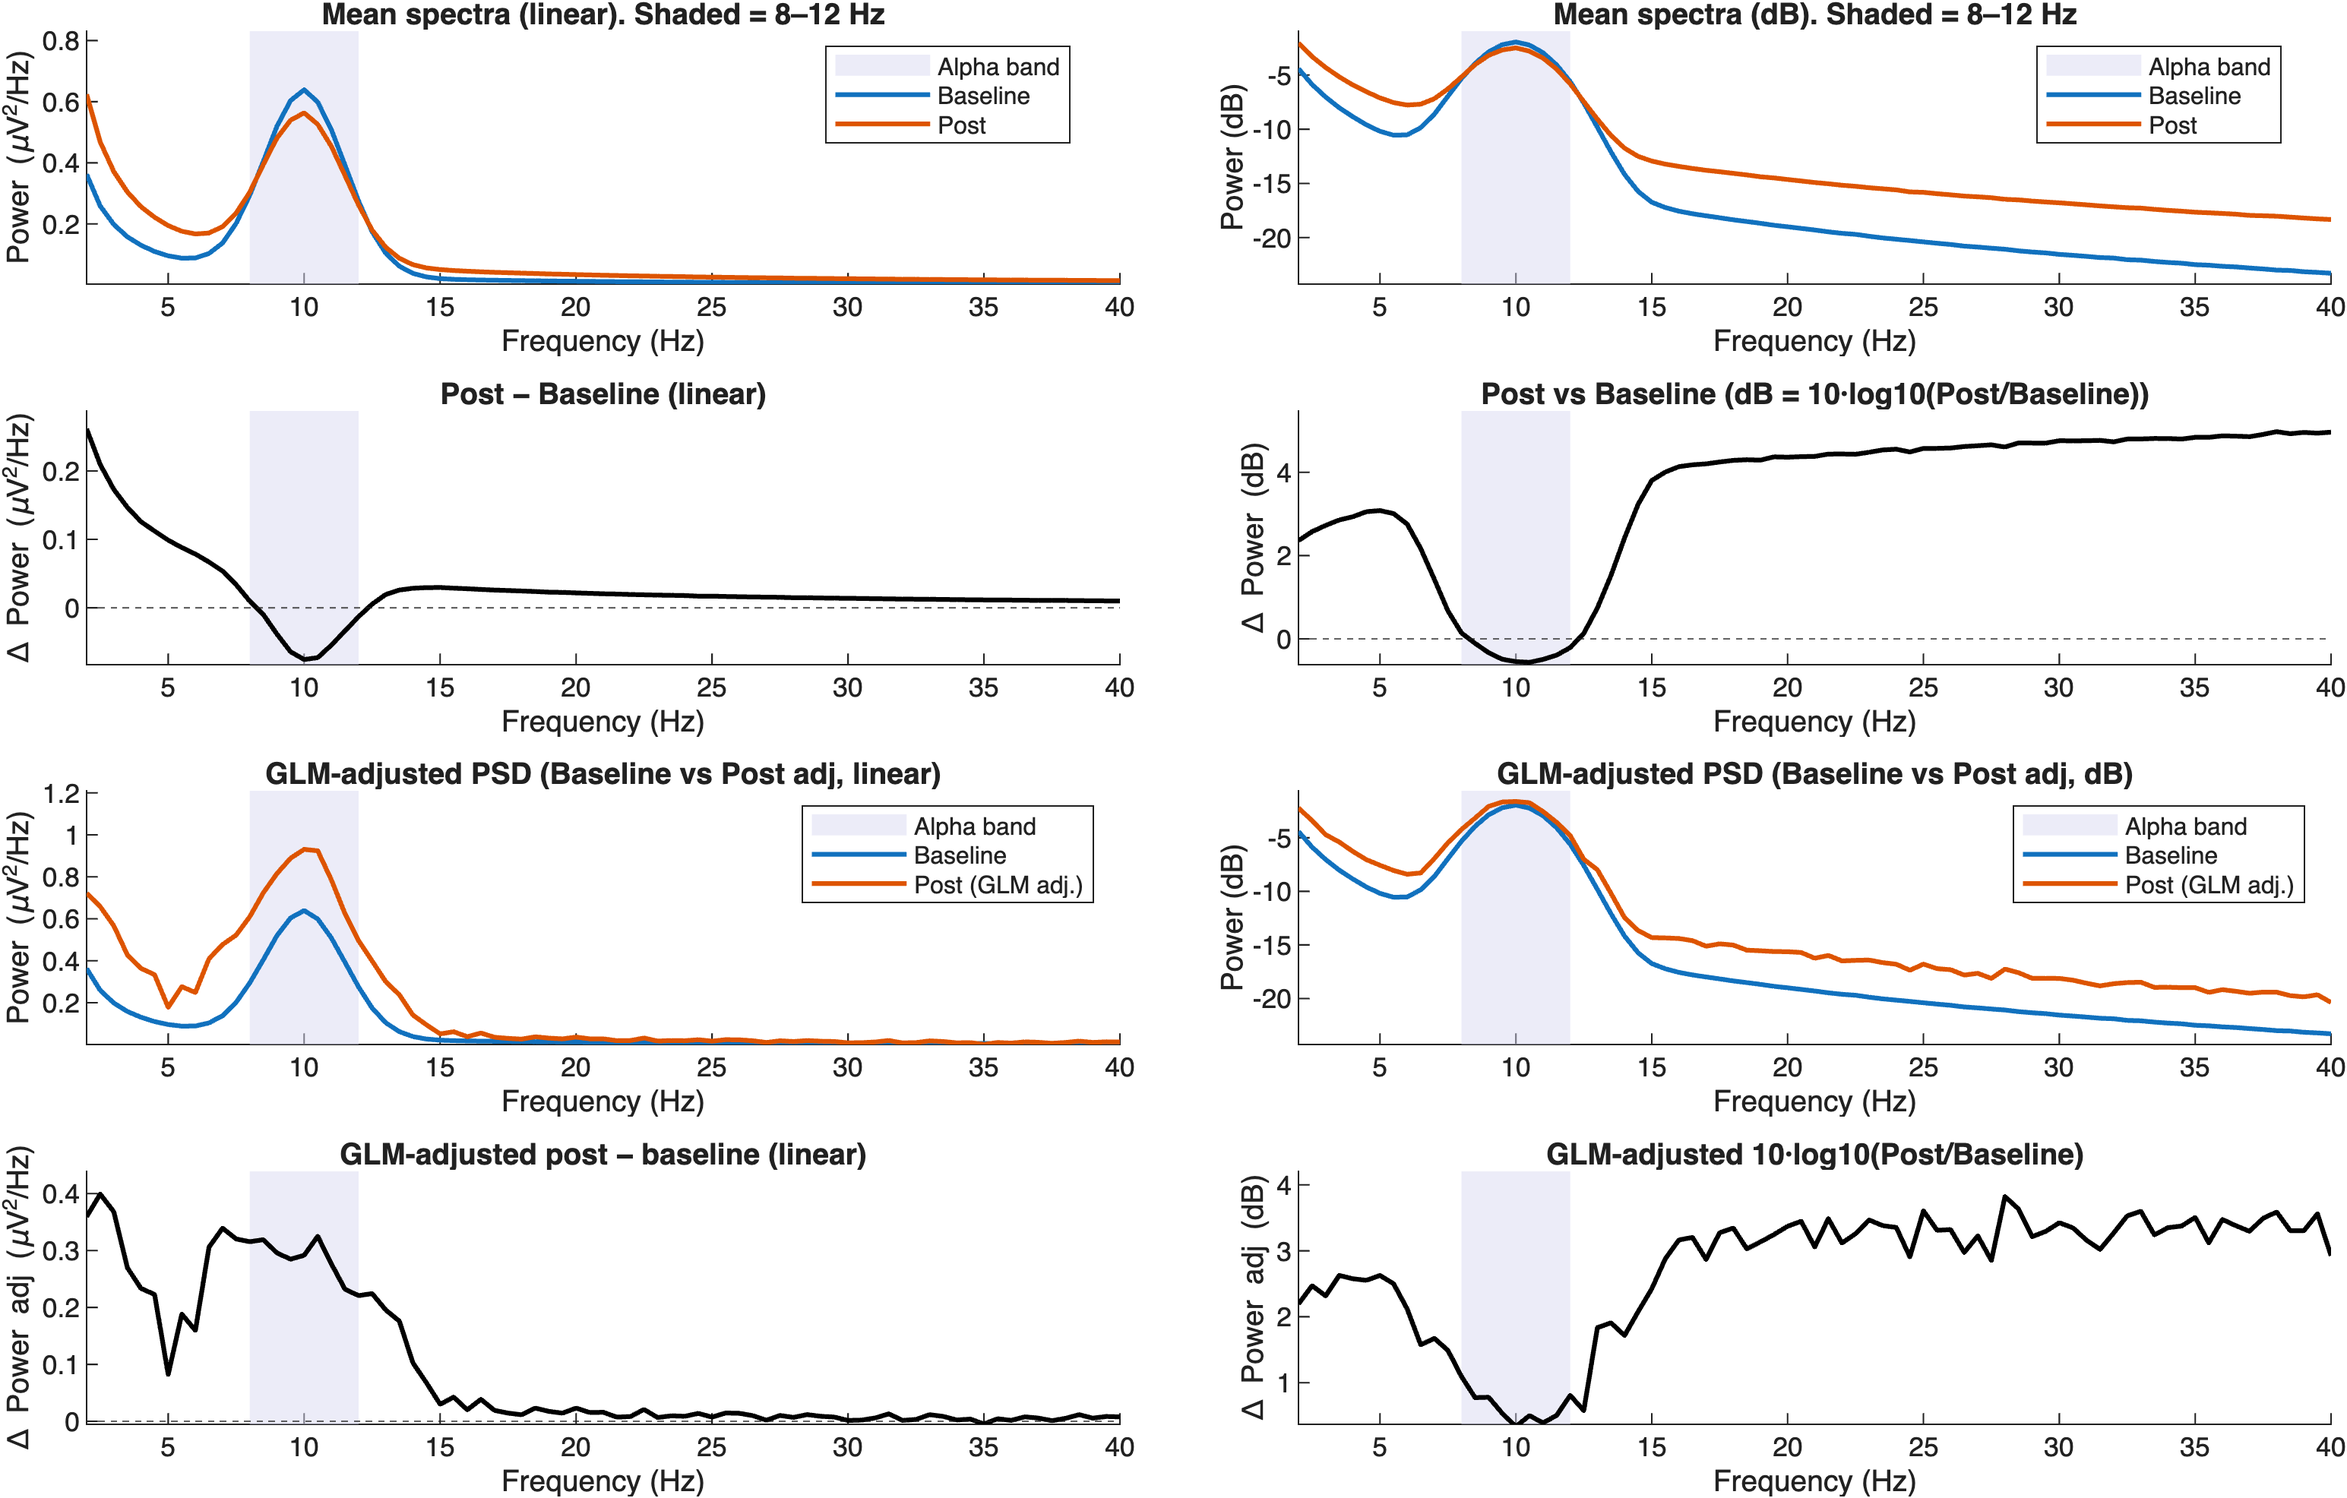
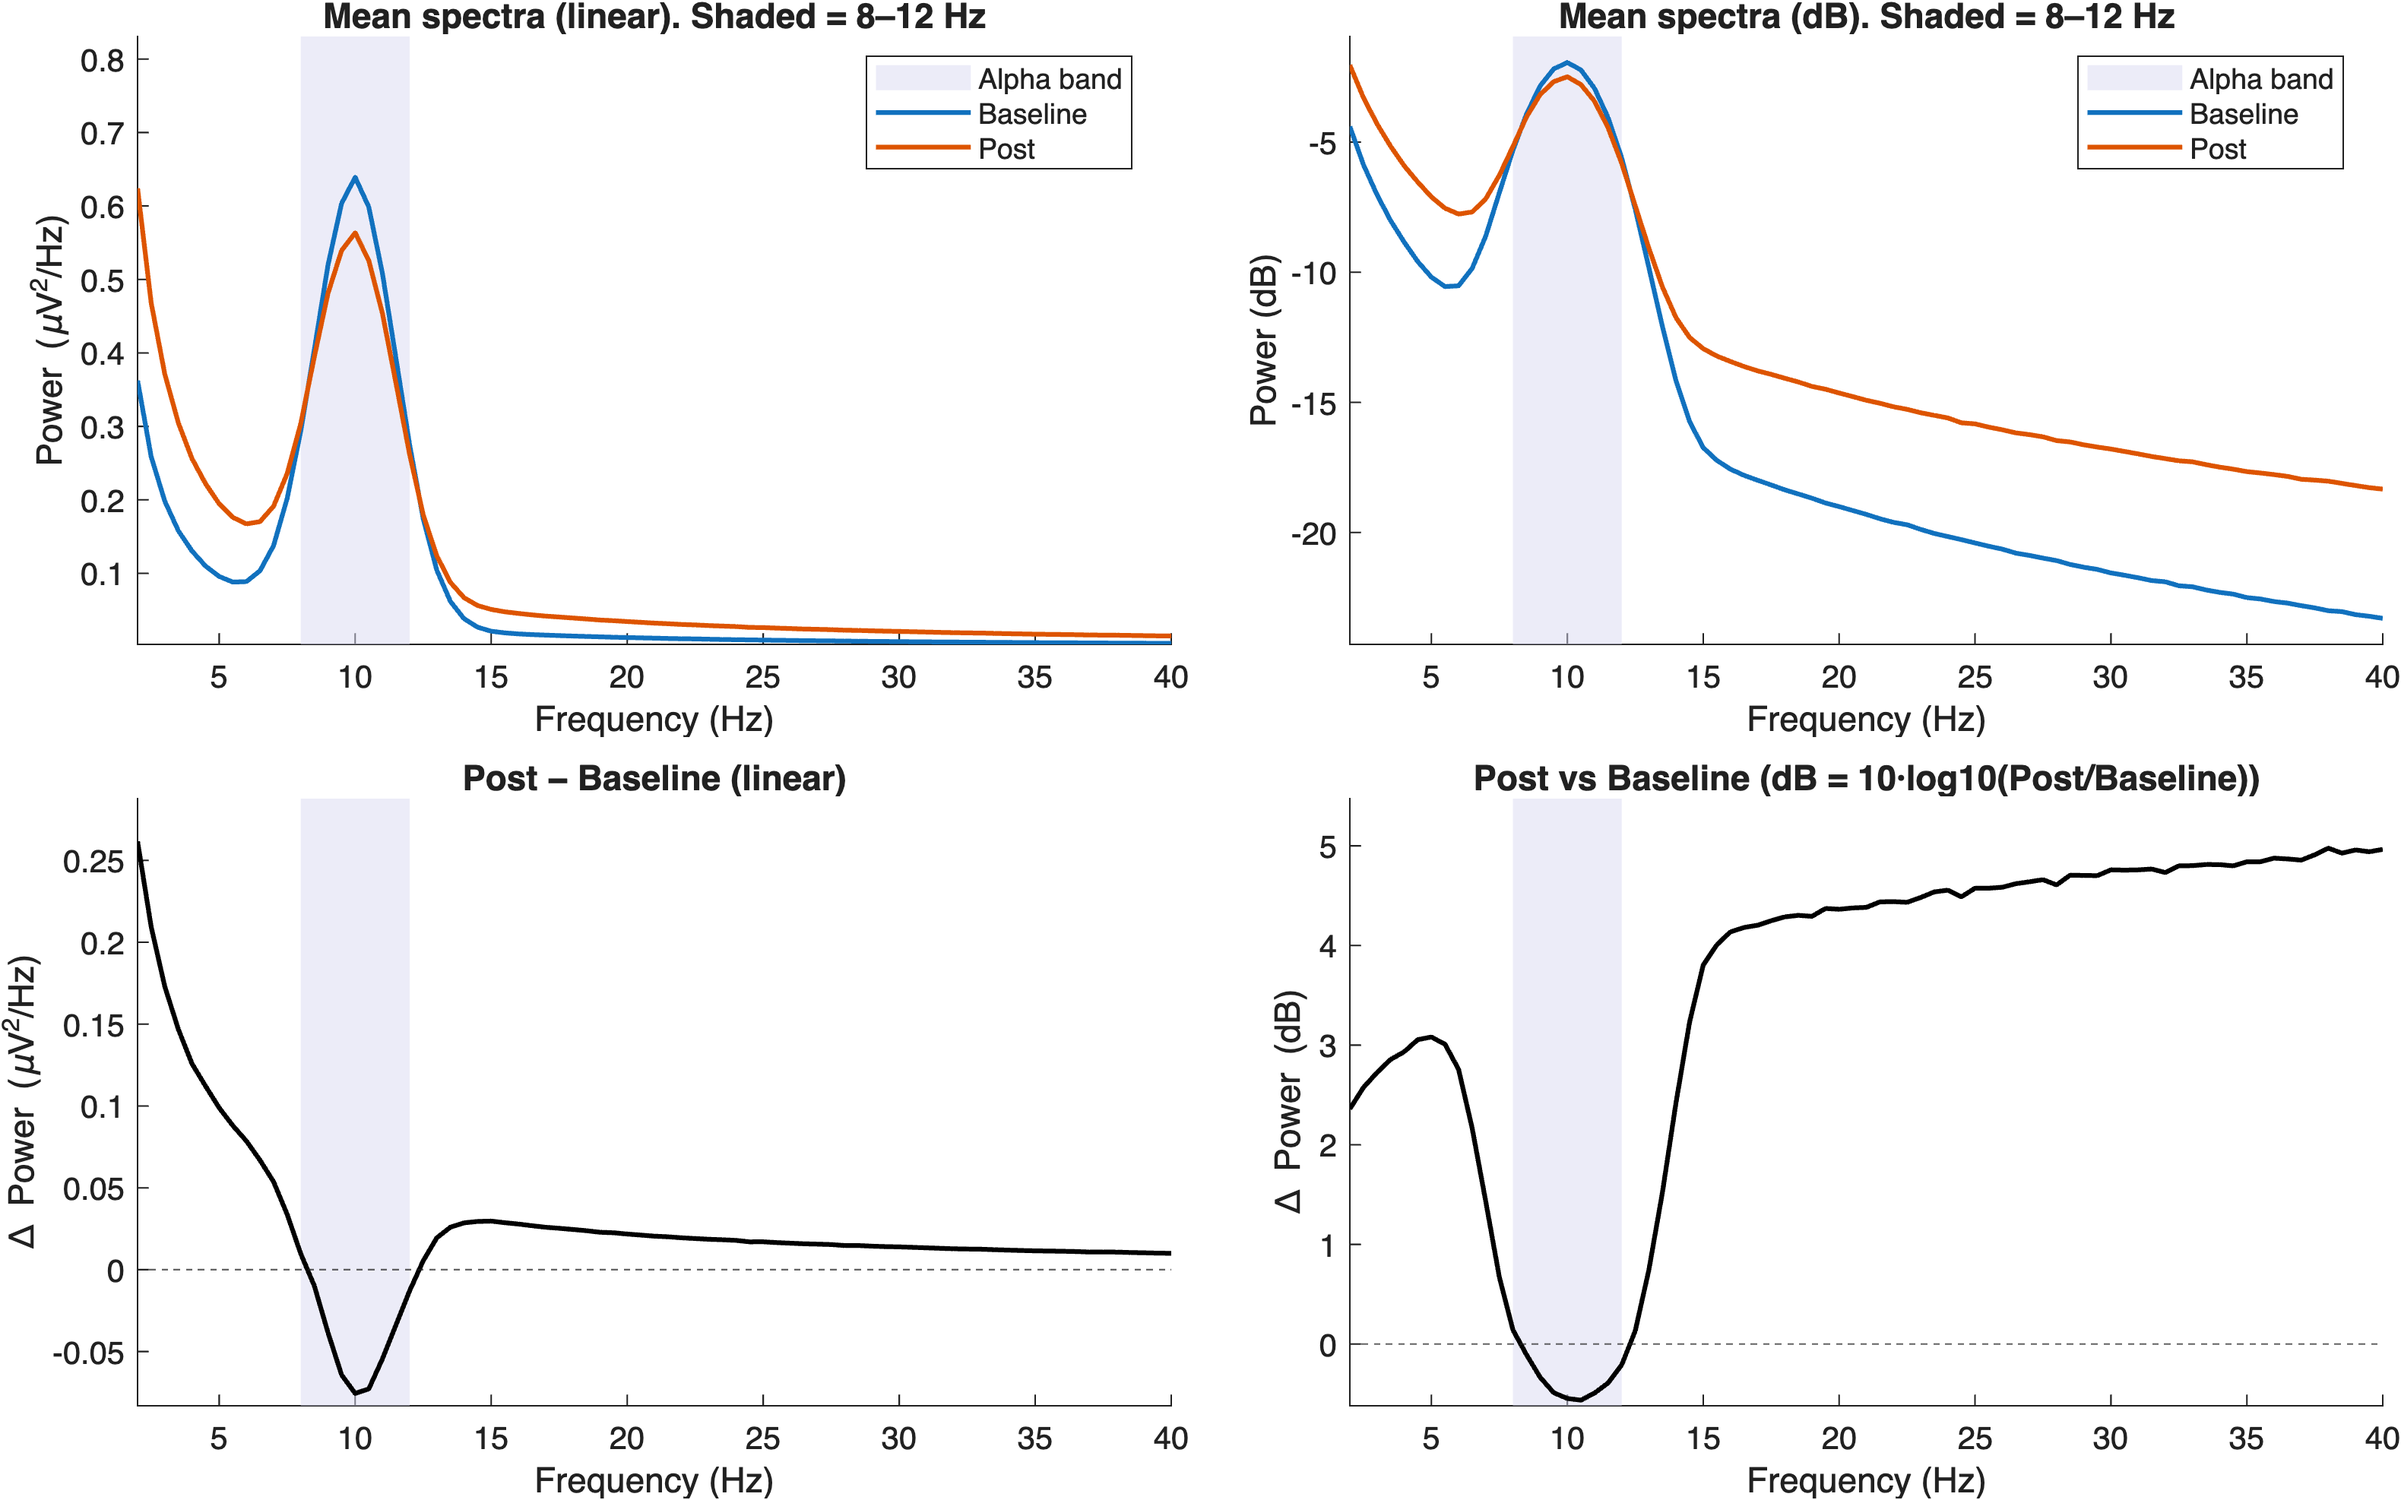
new figs spearated

diff --git a/simulation_v1.m b/simulation_v1.m
@@ -70,7 +70,7 @@ delta_adj_mean = betas(1);
 fprintf('GLM adjusted change:  mean = %.4f uV^2/Hz (intercept)\n', delta_adj_mean);
 
 
-%% Figure 1: spectra, differences, and GLM-adjusted views (4x2 tiles)
+%% Figure 1: Illustrating the issue
 
 % Precompute means and raw differences
 m0     = mean(P0,1);
@@ -105,7 +105,7 @@ m1_glm_lin = m0 + glm_lin_int;       % adjusted post PSD in linear units
 m1_glm_db  = m0_db + glm_db_int;     % adjusted post PSD in dB
 
 figure('Color','w');
-tiledlayout(4,2,'Padding','compact','TileSpacing','compact');
+tiledlayout(2,2,'Padding','compact','TileSpacing','compact');
 
 % Row 1: mean spectra (linear)
 nexttile; hold on;
@@ -148,6 +148,14 @@ yline(0,'--','HandleVisibility','off');
 xlim([min(f) max(f)]); ylim(yld_db);
 xlabel('Frequency (Hz)'); ylabel('\Delta Power (dB)');
 title('Post vs Baseline (dB = 10·log10(Post/Baseline))');
+
+exportgraphics(gcf, 'fig1.png', 'Resolution', 300);
+
+
+%% FIG 2: Illustrating the GLM solution
+
+figure('Color','w');
+tiledlayout(2,2,'Padding','compact','TileSpacing','compact');
 
 % Row 3: GLM-adjusted PSDs (linear)
 nexttile; hold on;
@@ -193,9 +201,9 @@ xlim([min(f) max(f)]); ylim(yld_db_glm);
 xlabel('Frequency (Hz)'); ylabel('\Delta Power adj (dB)');
 title('GLM-adjusted 10·log10(Post/Baseline)');
 
-exportgraphics(gcf, 'fig1.png', 'Resolution', 300);
+exportgraphics(gcf, 'fig2.png', 'Resolution', 300);
 
-%% Diagnostics: per-frequency GLM coefficients (linear and dB)
+%% FIG 3: Diagnostics: per-frequency GLM coefficients (linear and dB)
 
 % Refit frequency-wise GLMs with z-scored predictors to get comparable betas
 glm_lin_b = zeros(nF,4);   % columns: [intercept, offset, exponent, baseline]
@@ -247,4 +255,4 @@ xlabel('Frequency (Hz)'); ylabel('\beta (dB model)');
 title('GLM coefficients vs frequency (dB \Delta)');
 legend({'offset','exponent','baseline dB'},'Location','best');
 
-exportgraphics(gcf,'fig2.png','Resolution',300);
+exportgraphics(gcf,'fig3.png','Resolution',300);
